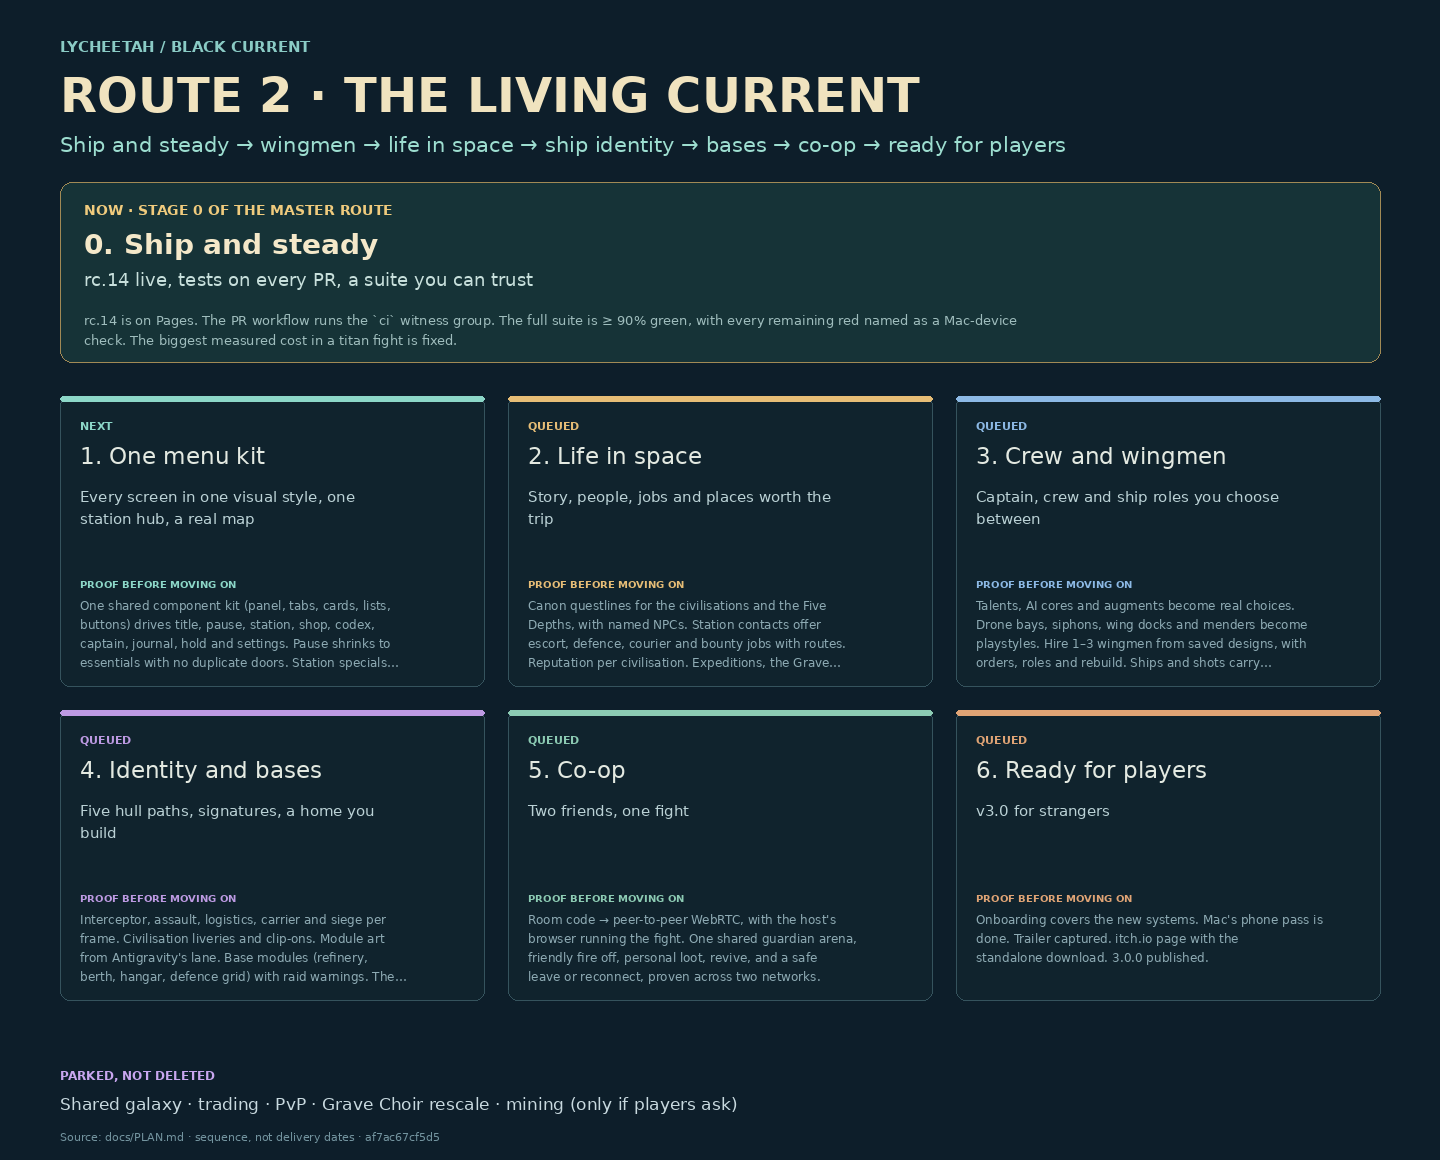
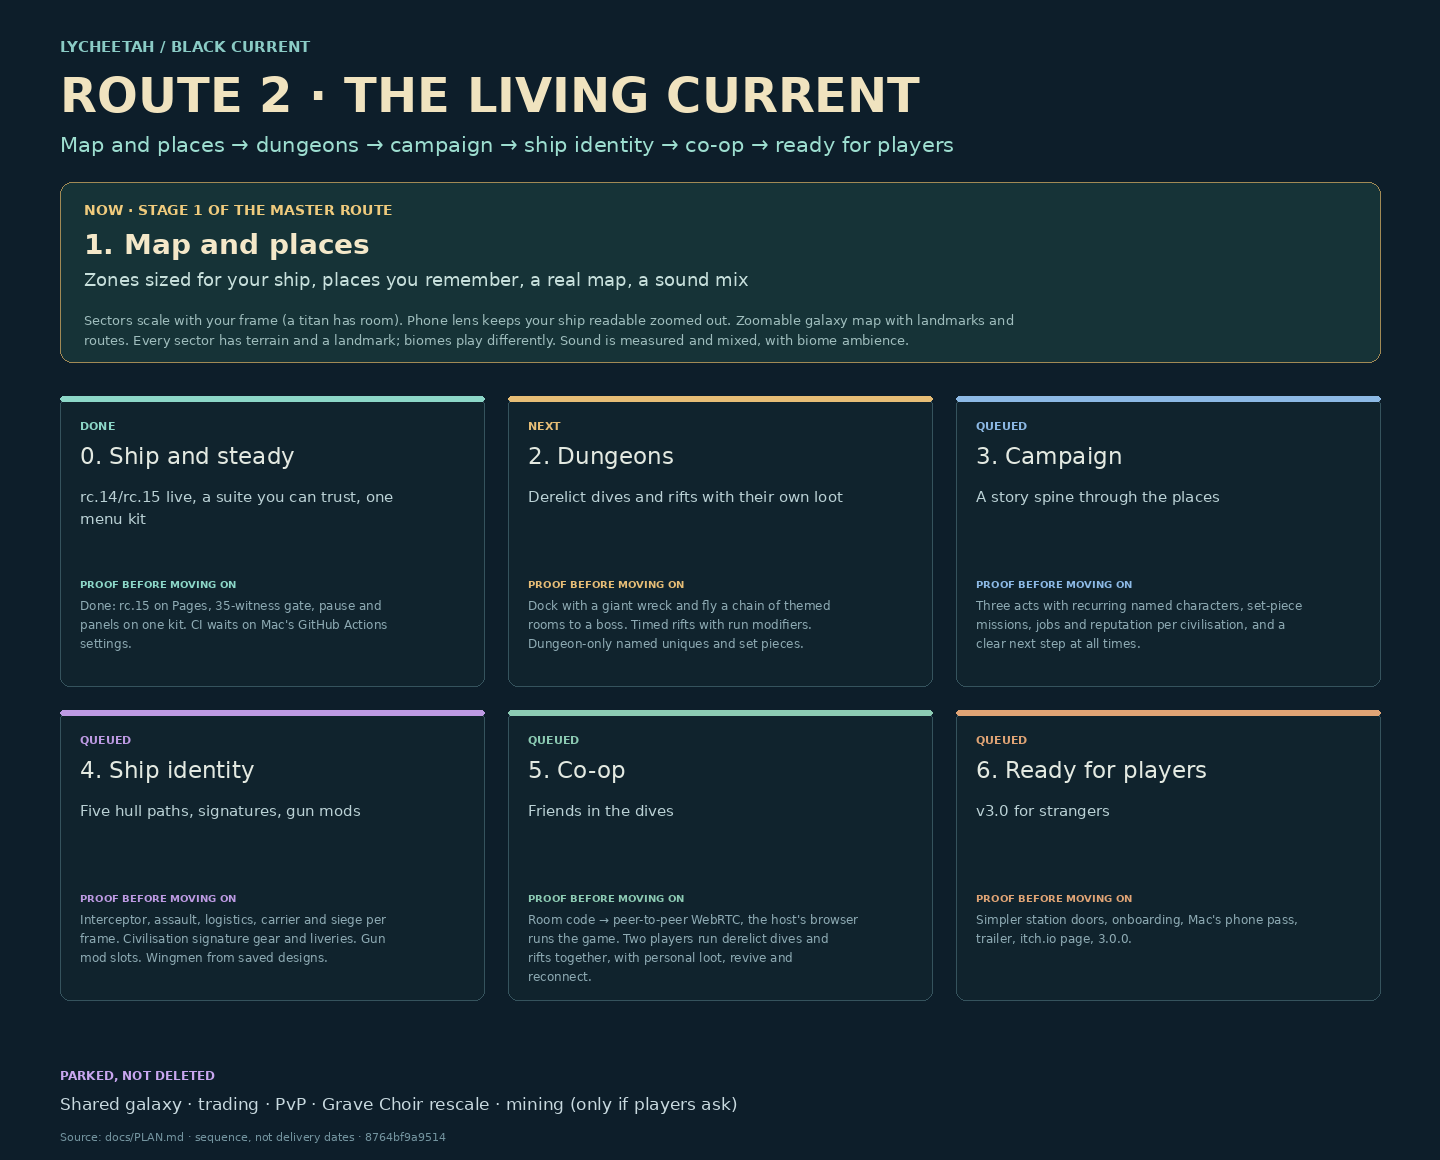
Route 2 revised: places first, then dungeons, campaign, identity, co-op, players
Mac's verdict after rc.15: bland maps, confusing menus at times, thin direction,
too little gear and too few places, titans great but zones too small, sound
wrecked. Route 2 now builds places worth going to first: Stage 1 Map and
places (zones that scale with your ship, a phone lens over your ship, a
zoomable galaxy map, terrain and landmarks, a sound mix), then dungeons,
campaign, ship identity, co-op (in the dives) and ready for players. Zone size
may read the player's frame (room, not threat).

Claude-Session: https://claude.ai/code/session_01KZmWTsz9sR1w1zFVsVwU6C

diff --git a/scripts/render-roadmap.py b/scripts/render-roadmap.py
@@ -37,7 +37,7 @@ def lines(x, y, value, width=45, size=16, color='#abc3c9', limit=6):
 
 label(60, 52, 'LYCHEETAH / BLACK CURRENT', 15, '#8acbc5', 700)
 label(60, 112, 'ROUTE 2 · THE LIVING CURRENT', 48, '#f0e3bf', 700)
-label(60, 152, 'Ship and steady → wingmen → life in space → ship identity → bases → co-op → ready for players', 21, '#9dded0')
+label(60, 152, 'Map and places → dungeons → campaign → ship identity → co-op → ready for players', 21, '#9dded0')
 parts.append('<rect x="60" y="182" width="1320" height="180" rx="12" fill="#163337" stroke="#a18a55"/>')
 label(84, 215, f'NOW · STAGE {current} OF THE MASTER ROUTE', 14, '#f0cb7d', 700)
 label(84, 254, rows[current][0], 28, '#f4e8c9', 700)

diff --git a/docs/PLAN.md b/docs/PLAN.md
@@ -3,136 +3,140 @@
 The one plan for every AI seat and every human working on this repo: a single
 route, worked top-down. Read it before you start; update it before you stop.
 
-## The master route · Route 2 "The living current" (2026-10-29)
+## The master route · Route 2 "The living current" (revised 2026-10-29)
 
 The central loop is still **build → fight → recover something useful → refit → choose
 a harder destination**. Route 1 (scale, arsenal, climb, interface, wide dark, capital
-endgame) shipped as **2.12.0-rc.14**. Its receipts live in the CHANGELOG and git history.
-Route 2 makes the Current feel **alive and shared**: allies, people with jobs, ships with
-identity, a home you build, a friend in the fight, and a release strangers can pick up.
+endgame) shipped as **2.12.0-rc.14**. rc.15 (menu kit, Stage 0 fixes) is live.
+
+Mac's four goals stay: **co-op with friends, life in space, ship identity, ready for
+players**. His verdict after rc.15 (2026-10-29): the maps are bland, the menus are
+confusing at times, direction is there but thin, there's too little equipment and too few
+places to travel, titans are great but zones are too small, and the soundscape is wrecked.
+So Route 2 now builds **places worth going to, with a reason to go** first. Campaign, gear
+and co-op then stand on those places.
 
 Mac owns design, direction, the phone/fun verdict and release decisions. This is the
 **only** game plan: one route, worked top-down. **Every stage ends in a publishable
-candidate.** We publish small drops (one per stage or two) on Mac's word, so feedback
-stays fresh. The table is what `scripts/render-roadmap.py` draws; the stage notes below
-are the working list.
+candidate**, published on Mac's word. The table is what `scripts/render-roadmap.py` draws;
+the stage notes below are the working list.
 
 | Stage | Outcome | Done when |
 | --- | --- | --- |
-| 0. Ship and steady | rc.14 live, tests on every PR, a suite you can trust | rc.14 is on Pages. The PR workflow runs the `ci` witness group. The full suite is ≥ 90% green, with every remaining red named as a Mac-device check. The biggest measured cost in a titan fight is fixed. |
-| 1. One menu kit | Every screen in one visual style, one station hub, a real map | One shared component kit (panel, tabs, cards, lists, buttons) drives title, pause, station, shop, codex, captain, journal, hold and settings. Pause shrinks to essentials with no duplicate doors. Station specials and the salvage hold are rebuilt. The sector and galaxy charts become a zoomable map. Desktop and phone captures are reviewed by Mac. |
-| 2. Life in space | Story, people, jobs and places worth the trip | Canon questlines for the civilisations and the Five Depths, with named NPCs. Station contacts offer escort, defence, courier and bounty jobs with routes. Reputation per civilisation. Expeditions, the Grave Choir, jelly shoals, boss arenas and salvage tides each get a reason and a reward. |
-| 3. Crew and wingmen | Captain, crew and ship roles you choose between | Talents, AI cores and augments become real choices. Drone bays, siphons, wing docks and menders become playstyles. Hire 1–3 wingmen from saved designs, with orders, roles and rebuild. Ships and shots carry owner/team ids. |
-| 4. Identity and bases | Five hull paths, signatures, a home you build | Interceptor, assault, logistics, carrier and siege per frame. Civilisation liveries and clip-ons. Module art from Antigravity's lane. Base modules (refinery, berth, hangar, defence grid) with raid warnings. The titan works as a mobile base. |
-| 5. Co-op | Two friends, one fight | Room code → peer-to-peer WebRTC, with the host's browser running the fight. One shared guardian arena, friendly fire off, personal loot, revive, and a safe leave or reconnect, proven across two networks. |
-| 6. Ready for players | v3.0 for strangers | Onboarding covers the new systems. Mac's phone pass is done. Trailer captured. itch.io page with the standalone download. 3.0.0 published. |
+| 0. Ship and steady | rc.14/rc.15 live, a suite you can trust, one menu kit | Done: rc.15 on Pages, 35-witness gate, pause and panels on one kit. CI waits on Mac's GitHub Actions settings. |
+| 1. Map and places | Zones sized for your ship, places you remember, a real map, a sound mix | Sectors scale with your frame (a titan has room). Phone lens keeps your ship readable zoomed out. Zoomable galaxy map with landmarks and routes. Every sector has terrain and a landmark; biomes play differently. Sound is measured and mixed, with biome ambience. |
+| 2. Dungeons | Derelict dives and rifts with their own loot | Dock with a giant wreck and fly a chain of themed rooms to a boss. Timed rifts with run modifiers. Dungeon-only named uniques and set pieces. |
+| 3. Campaign | A story spine through the places | Three acts with recurring named characters, set-piece missions, jobs and reputation per civilisation, and a clear next step at all times. |
+| 4. Ship identity | Five hull paths, signatures, gun mods | Interceptor, assault, logistics, carrier and siege per frame. Civilisation signature gear and liveries. Gun mod slots. Wingmen from saved designs. |
+| 5. Co-op | Friends in the dives | Room code → peer-to-peer WebRTC, the host's browser runs the game. Two players run derelict dives and rifts together, with personal loot, revive and reconnect. |
+| 6. Ready for players | v3.0 for strangers | Simpler station doors, onboarding, Mac's phone pass, trailer, itch.io page, 3.0.0. |
 
 ```mermaid
 flowchart LR
-  S0["0 · Ship and steady"] --> S1["1 · One menu kit"] --> S2["2 · Life in space"] --> S3["3 · Crew and wingmen"]
-  S3 --> S4["4 · Identity and bases"] --> S5["5 · Co-op"] --> S6["6 · Ready for players"]
+  S0["0 · Ship and steady ✓"] --> S1["1 · Map and places"] --> S2["2 · Dungeons"] --> S3["3 · Campaign"]
+  S3 --> S4["4 · Ship identity"] --> S5["5 · Co-op"] --> S6["6 · Ready for players"]
 ```
 
 ### Why this order
 
-- **Trust first.** 31 of 54 witnesses were red, mostly stale, so the suite couldn't say "nothing broke". Small drops need a suite and CI that mean something.
-- **Menus next (Mac, 2026-10-29: the menus look rough).** The rc.14 audit found:
-  - about four visual styles;
-  - a 14-button pause menu with duplicate doors;
-  - a cramped 19×19 sector grid and an empty-looking galaxy chart;
-  - a blank Station specials page;
-  - an old-style salvage popup.
-  Every later stage adds screens, so the kit has to exist first.
-- **Then flesh out what already exists (Mac picked all four areas).** Story and canon, captain and crew, ship roles, events and places are all half-built. Making them real beats adding new systems beside them.
-- **Wingmen ride with crew and roles.** Wing docks and menders already exist as parts. Wingmen and team ids grow out of them, and team ids are half the co-op refactor.
-- **Identity and bases before co-op.** Paths and bases give two players something to bring and somewhere to return to.
-- **Ready for players last.** Onboarding, trailer and store page describe a finished feature set.
+- **Places before story.** A sector today is a dark disc with a danger number. Nothing to remember means nothing to travel to, which is why the map feels bland and direction feels thin.
+- **Zones before terrain.** Since Route 1 a titan is ~1,840 px long, but home sectors, stations and boss arenas are 2,600 px in radius. Room comes first, then things to fill it.
+- **Dungeons are the best content per hour** and give co-op something to do, so they come before both campaign and co-op.
+- **Campaign stands on places and dungeons**: its missions happen in them.
+- **Identity grows out of dungeon loot**: uniques, sets and mods give paths and signatures something to build around.
+- **Co-op launches into dives and rifts**, not into one bare arena.
 
 ### Decisions in force
 
-Still in force from Route 1:
 1. The six core files are open to edit, under behaviour witnesses.
 2. Saves are migrated, never reset.
 3. `art/` is used first; Antigravity keeps the module and cosmetic art lane.
-4. Threat stays fixed by place and never reads the player's power.
-
-New, Mac, 2026-10-29:
-5. **Small drops.** Publish rc.14, then a candidate after every stage or two, on Mac's word.
+4. Threat stays fixed by place and never reads the player's power. **Zone size may read the player's frame** (room, not threat).
+5. **Small drops:** a candidate after every stage or two, on Mac's word.
 6. **Five hull paths per frame:** interceptor, assault, logistics, carrier, siege.
-7. **Co-op is peer-to-peer and host-authoritative.** The host's browser runs the fight and the guest sends input. No game server.
-   - Signalling for the first slice uses a free relay (PeerJS cloud). That is a third-party dependency; Mac confirms it before Stage 5 ships.
+7. **Co-op is peer-to-peer and host-authoritative.** Signalling through the PeerJS cloud relay is a third-party dependency; Mac confirms it before Stage 5 ships.
 
 ### Stage notes (the working list)
 
-**0 · Ship and steady**
-- ~~Publish rc.14~~ Done 2026-10-29.
-- **CI:** `.github/workflows/test.yml` runs `node scripts/regression.mjs --retry ci` in Firefox on every PR.
-  - **Blocked:** GitHub Actions never starts a runner on this repo (runner_id 0, about 3 s). The existing `Publish Black Current` workflow on `main` fails the same way. Mac: check Settings → Billing and repo Settings → Actions.
-- **Test debt:** work the red witnesses.
-  - Update the stale ones.
-  - Retire witnesses whose subject was removed, with one line each in the commit.
-  - Name the Mac-device-only checks.
-- **Performance:** profile a danger-20 titan fight (`scripts/attrib-render-passes.mjs`, `js/render-budget.js`) and fix the biggest measured cost.
+**0 · Ship and steady** (done)
+- rc.14 and rc.15 published. Suite 34/46 (main/rc.13: 17/48); remaining reds named in live tasks.
+- **CI blocked:** Actions never starts a runner on this repo. Mac: Settings → Billing and plans; repo Settings → Actions → General → allow actions.
+- Titan-fight performance profiling moves into Stage 1, where zones and terrain change the cost.
 
-**1 · One menu kit**
-- **One component kit** (`css/ui-kit.css` plus small DOM helpers): panel, header, tabs, card grid, list row, stat chip, primary/secondary button, empty state. One type scale and one palette.
-- **Screens move onto the kit:** title, new pilot, pause, settings, how to play, station hub, shop, specials, codex, captain/journal, salvage hold, upgrades.
-- **Pause:** resume, ship, station-or-chart, journal, settings, quit. No duplicate doors.
-- **Station hub:** one screen with your ship plus service cards. Captain, training and upgrades merge into one "Captain & ship" area. Station specials gets real stock cards. The salvage hold becomes a hub card.
-- **Map:**
-  - one zoomable map with system and galaxy layers;
-  - sectors drawn by band colour, with routes and icons (stations, derelicts, citadels, warlords);
-  - tap to route; phone pinch and drag.
-- **Proof:** `witness-menu-kit.mjs` (every screen opens, one style token set, no overflow on desktop or 390×844). Contact sheets for Mac.
+**1 · Map and places**
+- **Zones scale with your ship:**
+  - every sector's radius ≥ ~6 of your ship-lengths, home rings, stations and boss arenas included;
+  - stations big enough for a titan to dock;
+  - camera pulls back further for big frames;
+  - fleets spread across the room;
+  - cruise speed scales with frame.
+- **Phone lens:** a soft-edged circle around your ship drawn at close zoom when the view is zoomed out. Setting: on/off/size, default on for touch. Frame time measured in a titan fight.
+- **Galaxy map:**
+  - one zoomable map (pinch/drag, wheel) with system and galaxy layers;
+  - sectors by band colour, landmarks and icons (stations, derelicts, citadels, warlords, shoals);
+  - tap a sector to plot a route;
+  - replaces the 19×19 label grid and the galaxy dots.
+- **Terrain and landmarks:**
+  - seeded per sector: asteroid fields, ice shelves, wreck fields, reef growth, gas clouds (hide you), current lanes (push you); solid bodies collide;
+  - one landmark per sector: dead titan, broken ring station, gate ruin, black-hole edge, faction beacon;
+  - biome identity: Reef (cover, swarms), Pressure Line (channels, heavies), Black Sun (dark, sonar), Foundry (slag storms, loot rain), Graveyard (derelicts);
+  - faction space shows its owner's colours and buoys.
+- **Sound pass:**
+  - render fights offline and measure peak, loudness and simultaneous voices;
+  - a master limiter, voice caps per sound, ducking under big hits;
+  - a distinct voice per gun family;
+  - an ambient bed per biome.
+- **Proof:** `witness-zones.mjs`, `witness-lens.mjs`, `witness-map.mjs`, `witness-terrain.mjs`, `witness-sound-mix.mjs`.
 
-**2 · Life in space**
-- **Story and canon:**
-  - a questline per civilisation, starting with five;
-  - Five Depths story beats;
-  - named NPCs from `docs/canon/` (`js/canon.js`).
-  The journal grows main / faction / depth tabs. Continues the `first-expedition.js` pattern.
-- **Jobs:** contacts in the station hub offer escort, station defence, courier and bounty jobs, as contract kinds routed through `travel.js`.
-- **Reputation** per civilisation opens `quartermaster.js` stock, commissions and liveries.
-- **Events and places:**
-  - `expeditions.js`, the Grave Choir (rescale onto the threat ladder), `jelly-shoals.js`, `boss-scenes.js` and `salvage-tides.js` each get a clear hook, map marker and specific reward;
-  - more system rules.
-- **Proof:** `witness-life.mjs`.
+**2 · Dungeons**
+- **Derelict dives:**
+  - dock with a giant wreck (dead titan, citadel ruin);
+  - a chain of 4–7 rooms (corridor, hangar, reactor, vault) with tight walls and room rules;
+  - a boss at the end;
+  - built on the sector chain (`worldMap` chambers) with their own seed and save record.
+- **Rifts:** short timed runs with escalating waves, one modifier per run (no shields, double speed, splitters…), and a chest.
+- **Loot:**
+  - dungeon-only **named uniques** (chain lightning, reflecting shield…);
+  - **set pieces** (three parts bond into a set bonus).
+- **Proof:** `witness-dungeons.mjs`.
 
-**3 · Crew and wingmen**
-- **Captain:** `pilot.js` talents and training, `captain-talents.js` and AI cores become build choices with visible trade-offs, plus augments slots.
-- **Crew:** a crew roster with traits (from vows/crews) that changes how the ship plays.
-- **Ship roles:** `roles.js` drone bays, siphons, wing docks and menders each get a clear playstyle, upgrade path and counter.
+**3 · Campaign**
+- **Three acts:**
+  - Act 1: home and the first expedition;
+  - Act 2: the faction war (pick a side; stock, allies and enemies change);
+  - Act 3: warlords and citadels as the climax.
+- **Characters:** recurring named NPCs from `js/canon.js` with voices in the journal.
+- **Missions with set pieces:** a Riptide escort, a station siege, a Black Sun chase, a citadel break-in.
+- **Jobs and reputation:** station contacts offer escort, defence, courier and bounty jobs; reputation per civilisation opens stock and liveries.
+- **Proof:** `witness-campaign.mjs`.
+
+**4 · Ship identity**
+- **Hull paths:** bought from the Shipwright and stored per frame; each changes a few `tuning` multipliers.
+- **Signatures:**
+  - civilisation signature gear and liveries;
+  - gun mod slots (homing, pierce, split);
+  - module art from Antigravity's lane.
 - **Wingmen:**
-  - a `wingmen` save doc;
-  - modular designs compiled with `modularShips.compile`, scaled by `tuning.SIZE`;
-  - orders on keys 5–8 and phone buttons;
-  - rebuild at stations.
-- **Team ids** on ships and projectiles, so kills, loot and contracts attribute correctly.
-- **Proof:** `witness-crew.mjs` and `witness-wingmen.mjs`.
-
-**4 · Identity and bases**
-- **Hull paths:** bought from the Shipwright and stored per frame. Each changes a few `tuning` multipliers, shown on frame cards.
-- **Civilisation signatures** through `ship-identity.js` and `faction-art.js`. Module art from `art/review/` → `art/keyed/`, coordinated with Antigravity.
-- **Bases:**
-  - `hubs.js` KINDS gain refinery, berth, hangar and defence grid;
-  - a base panel;
-  - raid warnings.
-- **Titan services:** field refit and wingman relaunch.
-- **Proof:** `witness-identity-paths.mjs` and `witness-bases.mjs`.
+  - hire 1–3 from saved designs;
+  - orders on keys 5–8;
+  - rebuild at stations;
+  - team ids on ships and shots.
+- **Proof:** `witness-identity-paths.mjs` and `witness-wingmen.mjs`.
 
 **5 · Co-op** (design notes below)
-- Refactor the engine to `engine.players[]`, with `engine.player` kept as the local alias.
-- A WebRTC data channel. The host sends snapshots at about 15 Hz and the guest sends input at 30 Hz.
-- First slice: one guardian arena, personal loot, revive, a 30 s reconnect.
-- Mac confirms the PeerJS signalling relay before this ships.
-- **Proof:** `witness-coop.mjs`, with two browser contexts.
+- `engine.players[]` with `engine.player` as the local alias.
+- WebRTC data channel: the host sends snapshots at ~15 Hz, the guest sends input at 30 Hz.
+- First slice: two players in a derelict dive or rift, with personal loot, revive and a 30 s reconnect.
+- **Proof:** `witness-coop.mjs` with two browser contexts.
 
 **6 · Ready for players**
-- Onboarding cards for the new systems.
-- Mac's phone pass.
-- Trailer from `docs/TRAILER_CAPTURE.md`.
-- itch.io page and standalone build.
-- 3.0.0.
+- **Station:** three big doors (Ship, Captain, Market); pictures before numbers in the shop.
+- **Release:**
+  - onboarding cards;
+  - Mac's phone pass;
+  - trailer from `docs/TRAILER_CAPTURE.md`;
+  - itch.io page and standalone build;
+  - 3.0.0.
 
 ### Parked (not deleted)
 - **Persistent shared galaxy, trading, PvP:** only after co-op works.
@@ -141,8 +145,7 @@ New, Mac, 2026-10-29:
 
 ### Co-op design (Stage 5)
 
-- **First slice:** a private two-player room, one arena, existing ships, one shared
-  guardian, friendly fire off, personal loot and a simple revive. Four players is a
+- **First slice:** a private two-player room, a derelict dive or rift, existing ships, friendly fire off, personal loot and a simple revive. Four players is a
   later expansion, after frame and network measurements.
 - **Join flow:** create room → share code → ready check → enter together → fight →
   leave with an explicit result. No public matchmaking or voice/chat.
@@ -200,13 +203,13 @@ Updated: 2026-10-29T10:00:00+00:00
 
 | ID | Status | Task | Evidence / next step |
 | --- | --- | --- | --- |
-| stage-0-ship | running | rc.14 live, CI on PRs, a trustworthy suite, titan-fight performance | rc.14 published (gh-pages 07870cb). CI workflow added but **blocked**: Actions never starts a runner on this repo; Mac to check billing/Actions settings. Suite 34/46 green (main/rc.13: 17/48); `ci` gate = 34 witnesses. Real bugs fixed: warlords erased jelly shoals; New campaign → Build skipped the build; boss rehearsal wrote an empty `discoveries` field. 8 witnesses of removed UI retired (scripts/retired/README.md). Named debt, all red on main too: faction-fleets (enemy-wings re-roles formations), first-expedition (old armory licences, guard flake), gentle (bot sim never reaches danger 4), hangar-ui (panel scroll, capital price label), hubs ("This is a hub already"), phone-fitting (flow stall), refinement (draft preview), rookie-balance (elite sample at its 40 bound), sprites, vitals (320×568), site (needs .site-build on 8812), release-candidate (Mac's untracked incoming art). Next: titan-fight performance. |
-| stage-1-menus | running | One menu kit, station hub, pause, map | Kit landed (75b4812): css/ui-kit.css + js/ui-kit.js frame every service panel; pause regrouped into objective, Resume, six pictured tiles, extras and a quiet quit; `witness-menu-kit` (12 checks) in the gate. rc.15 published (gh-pages 46dd3db from 15cdd42; 11/11 live files match). Next: zoomable sector map replacing the 19×19 label grid and galaxy dots; station specials empty state; hold as a hub card; contact sheets for Mac. |
-| stage-2-life | queued | Story and canon, jobs, reputation, events and places | Civilisation questlines, NPC jobs, reputation, every event with a hook and reward; `witness-life`. |
-| stage-3-crew | queued | Captain/crew choices, ship-role playstyles, wingmen, team ids | `witness-crew`, `witness-wingmen`. |
-| stage-4-identity | queued | Five hull paths, signatures, module art, bases, titan services | `witness-identity-paths`, `witness-bases`. |
-| stage-5-coop | queued | Two-player peer-to-peer guardian fight | `engine.players[]`, WebRTC host authority; Mac confirms the PeerJS relay; `witness-coop`. |
-| stage-6-players | queued | v3.0 for strangers | Onboarding, phone pass, trailer, itch.io, 3.0.0. |
+| stage-0-ship | done | rc.14/rc.15 live, trustworthy suite, one menu kit | rc.15 live (gh-pages 46dd3db from 15cdd42). Gate: 35 witnesses green. Suite 34/46. CI **blocked** on Mac's GitHub Actions settings. Named debt (red on main too): faction-fleets, first-expedition, gentle, hangar-ui, hubs, phone-fitting, refinement, rookie-balance, sprites, vitals, site (needs .site-build), release-candidate (Mac's incoming art). |
+| stage-1-places | running | Zones sized for your ship, phone lens, galaxy map, terrain and landmarks, sound mix | Started 2026-10-29: zones first. |
+| stage-2-dungeons | queued | Derelict dives, rifts, named uniques and sets | `witness-dungeons`. |
+| stage-3-campaign | queued | Three acts, characters, missions, jobs and reputation | `witness-campaign`. |
+| stage-4-identity | queued | Hull paths, signatures, gun mods, wingmen | `witness-identity-paths`, `witness-wingmen`. |
+| stage-5-coop | queued | Two players in dives and rifts, peer-to-peer | Mac confirms the PeerJS relay; `witness-coop`. |
+| stage-6-players | queued | v3.0 for strangers | Station doors, onboarding, phone pass, trailer, itch.io, 3.0.0. |
 | rc14-verdict | review | Mac plays rc.14 (desktop and phone) | Live at lycheetah.github.io/black-current/play/. Judge framing, pace, guns, the 17.6 h climb model, menus and FPS. Every number is one line in `js/tuning.js`. |
 <!-- live-tasks:end -->
 
